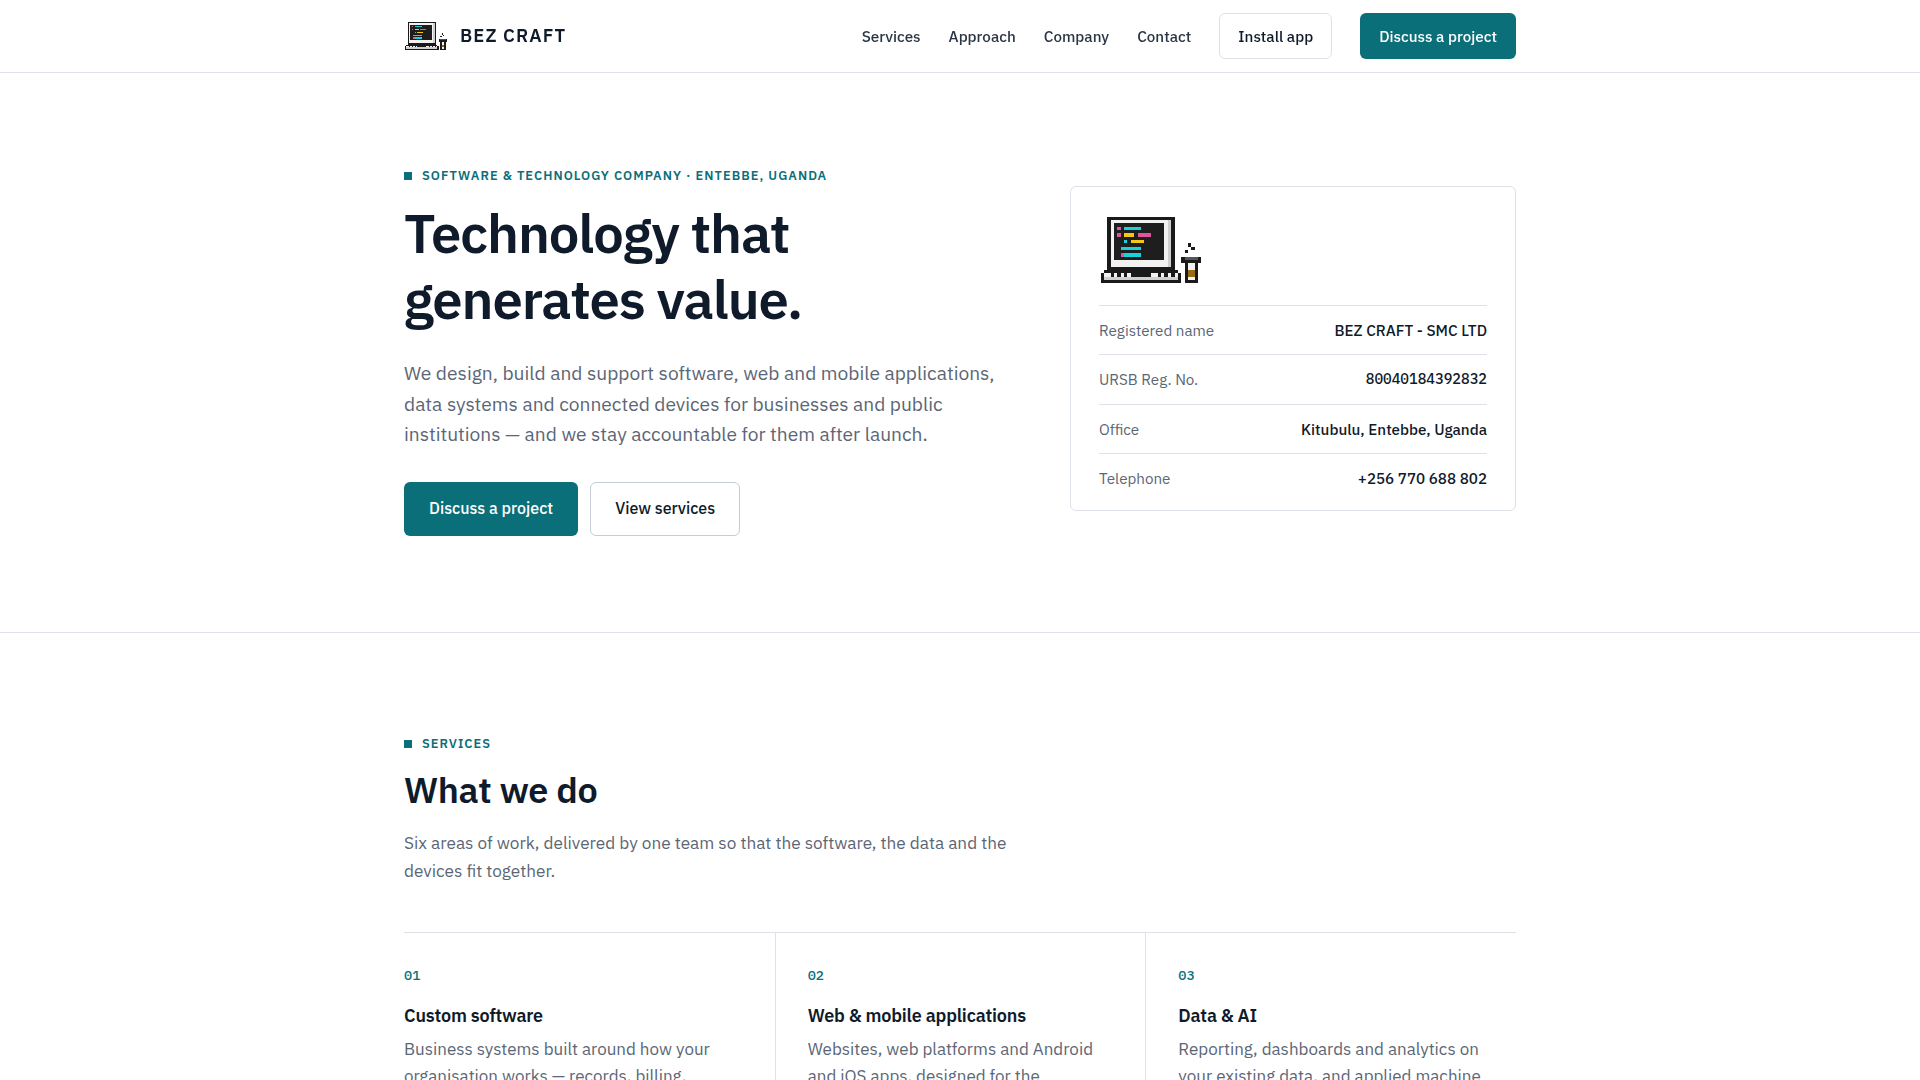
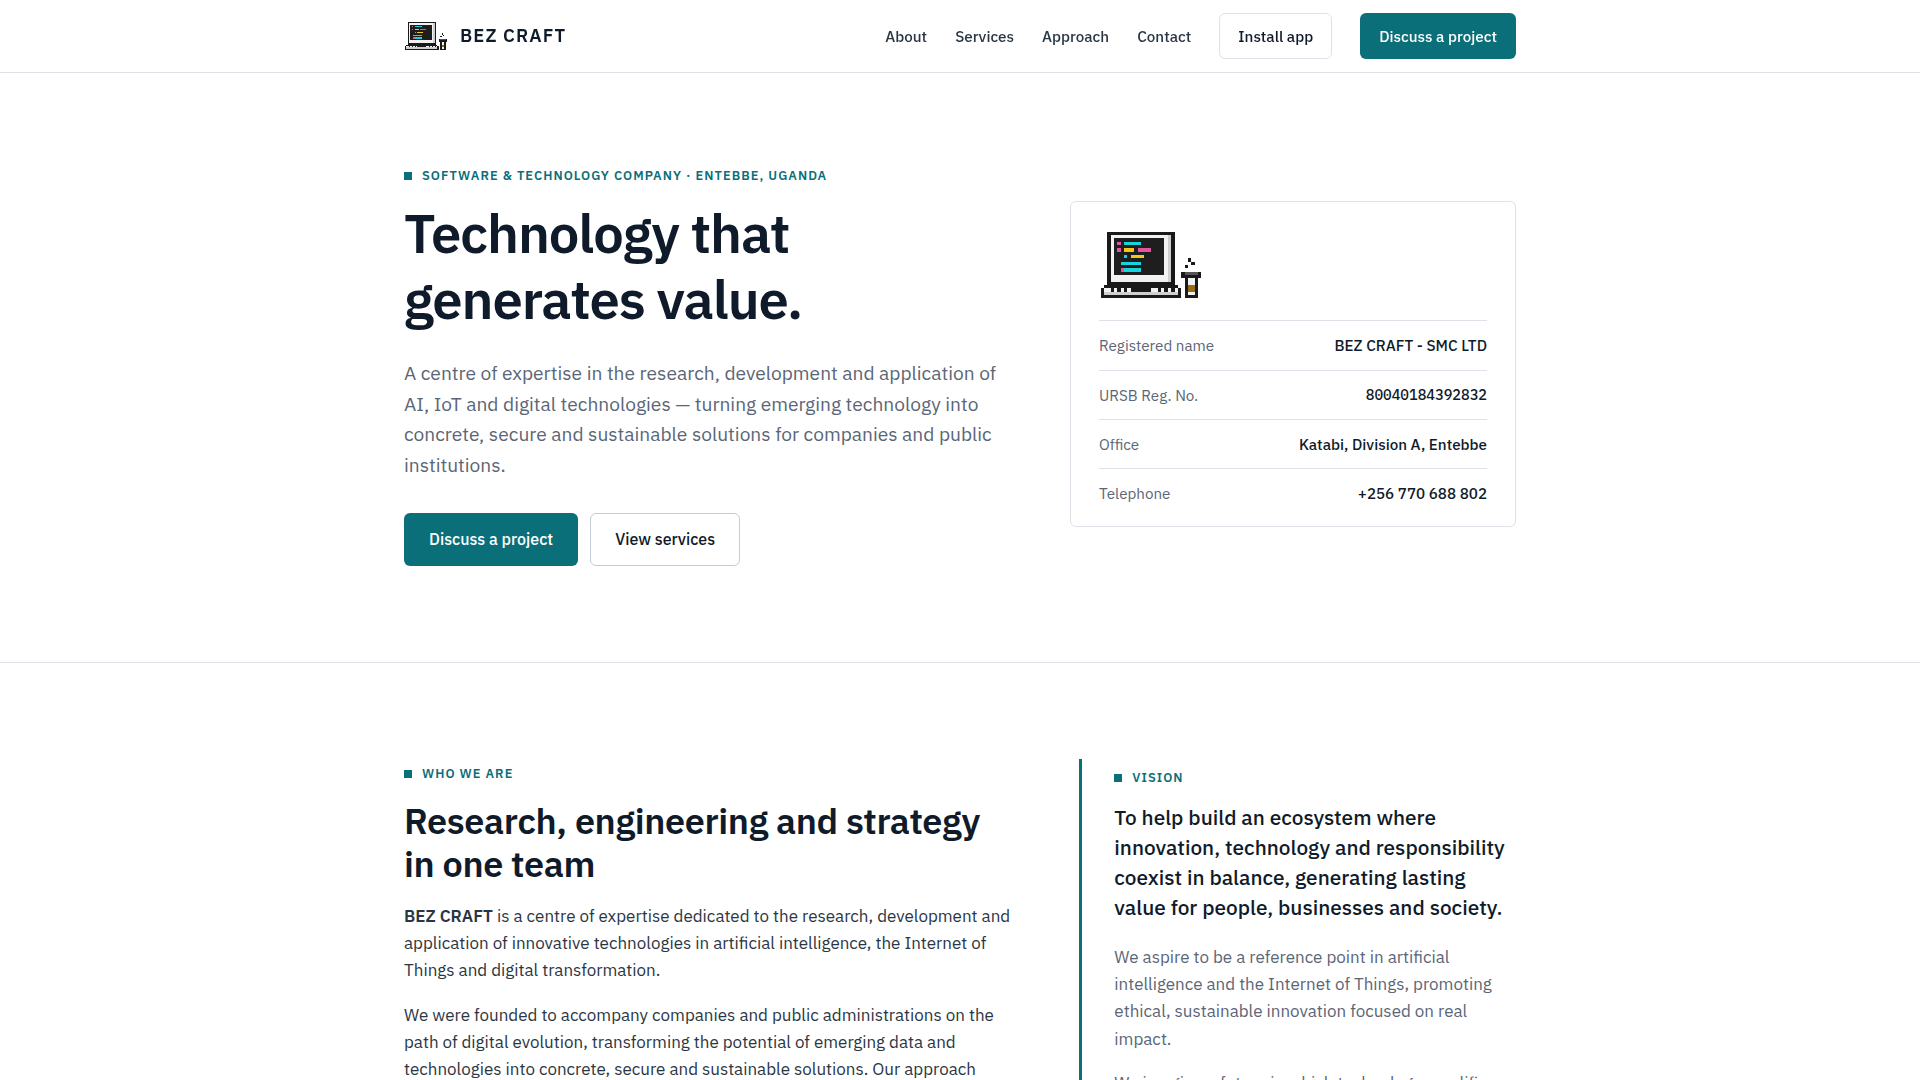
Show office as Katabi, Division A, Entebbe

diff --git a/index.html b/index.html
@@ -46,7 +46,7 @@
       "taxID": "1060526310",
       "identifier": {"@type": "PropertyValue", "propertyID": "URSB Registration No.", "value": "80040184392832"},
       "foundingDate": "2026-11-10",
-      "address": {"@type": "PostalAddress", "streetAddress": "Kitubulu, Katabi, Division A", "addressLocality": "Entebbe", "addressRegion": "Wakiso", "postOfficeBoxNumber": "703868", "addressCountry": "UG"},
+      "address": {"@type": "PostalAddress", "streetAddress": "Katabi, Division A", "addressLocality": "Entebbe", "addressRegion": "Wakiso", "postOfficeBoxNumber": "703868", "addressCountry": "UG"},
       "areaServed": "UG",
       "knowsAbout": ["Software development", "Web applications", "Mobile applications", "Data analytics", "Artificial intelligence", "AI agents", "Intelligent automation", "Internet of Things", "Systems integration", "IT consultancy"]
     }
@@ -93,7 +93,7 @@
                     <dl>
                         <div><dt>Registered name</dt><dd>BEZ CRAFT - SMC LTD</dd></div>
                         <div><dt>URSB Reg. No.</dt><dd class="mono">80040184392832</dd></div>
-                        <div><dt>Office</dt><dd>Kitubulu, Entebbe, Uganda</dd></div>
+                        <div><dt>Office</dt><dd>Katabi, Division A, Entebbe</dd></div>
                         <div><dt>Telephone</dt><dd><a href="tel:+256770688802">+256 770 688 802</a></dd></div>
                     </dl>
                 </aside>
@@ -241,7 +241,7 @@
                         <li><span>Telephone</span><a href="tel:+256770688802">+256 770 688 802</a></li>
                         <li><span>WhatsApp</span><a href="https://wa.me/256770688802" rel="noopener">+256 770 688 802</a></li>
                         <li><span>Email</span><a href="mailto:thegeeksinformation@gmail.com">thegeeksinformation@gmail.com</a></li>
-                        <li><span>Office</span>Kitubulu, Katabi, Division A, Entebbe</li>
+                        <li><span>Office</span>Katabi, Division A, Entebbe</li>
                         <li><span>Post</span>P.O. Box 703868, Entebbe</li>
                     </ul>
                 </div>
@@ -289,7 +289,7 @@
         <div class="wrap footer-grid">
             <div>
                 <p class="footer-brand">BEZ CRAFT</p>
-                <p>BEZ CRAFT - SMC LTD<br>URSB Reg. No. 80040184392832 · TIN 1060526310<br>Kitubulu, Katabi, Division A, Entebbe, Uganda<br>P.O. Box 703868, Entebbe</p>
+                <p>BEZ CRAFT - SMC LTD<br>URSB Reg. No. 80040184392832 · TIN 1060526310<br>Katabi, Division A, Entebbe, Uganda<br>P.O. Box 703868, Entebbe</p>
             </div>
             <div>
                 <p class="footer-head">Services</p>

diff --git a/pages/privacy.html b/pages/privacy.html
@@ -213,7 +213,7 @@
                 <strong>Email:</strong>thegeeksinformation@gmail.com<br>
                 <strong>Phone:</strong> +256 7706 88802<br>
                 <strong>Address:</strong> BEZ CRAFT - SMC LTD (Privacy)<br>
-                Kitubulu, Katabi, Division A, Entebbe, Wakiso, Uganda | P.O. Box 703868 Entebbe | Tel: +256 770 688 802
+                Katabi, Division A, Entebbe, Wakiso, Uganda | P.O. Box 703868 Entebbe | Tel: +256 770 688 802
             </p>
         </div>
     </div>

diff --git a/pages/terms.html b/pages/terms.html
@@ -262,7 +262,7 @@
                 <strong>Email:</strong> thegeeksinformation@gmail.com<br>
                 <strong>Phone:</strong> +256 7706 88802<br>
                 <strong>Address:</strong> BEZ CRAFT - SMC LTD (Legal)<br>
-                Kitubulu, Katabi, Division A, Entebbe, Wakiso, Uganda | P.O. Box 703868 Entebbe | Tel: +256 770 688 802
+                Katabi, Division A, Entebbe, Wakiso, Uganda | P.O. Box 703868 Entebbe | Tel: +256 770 688 802
             </p>
         </div>
     </div>
